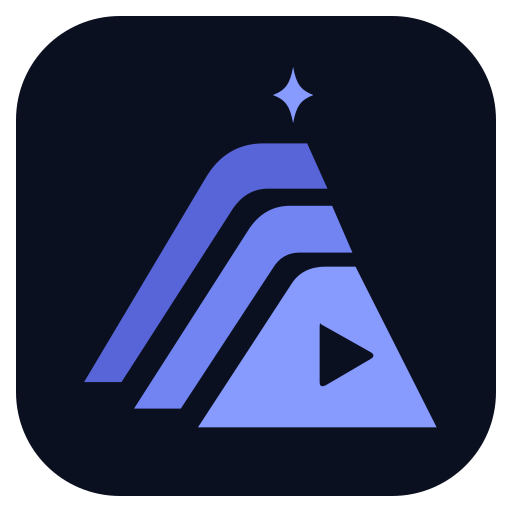
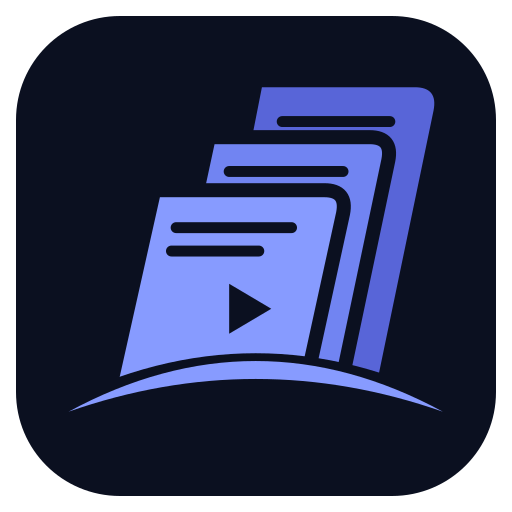
feat(brand): adopt files over sun arc identity

Changed region(s): [[0.1562, 0.125, 0.875, 0.8438], [0.1562, 0.7812, 0.1875, 0.8125]]

diff --git a/scripts/brand/build_brand.py b/scripts/brand/build_brand.py
@@ -16,17 +16,22 @@ FONT = Path(os.environ.get('ASTELVO_FONT_DIR', '/usr/share/fonts/truetype/libera
 COLORS = dict(background='#0B1020', surface='#151D30', accent='#879BFF', accentDeep='#5865D8', text='#F5F7FA', muted='#9CA8BC', sun='#F6C453')
 
 # Deliberate geometric reconstruction of approved raster concept; not an automatic trace.
-LAYERS = [
- 'M18 218 96 87Q109 65 133 65H161L174 94H136Q121 94 112 109L42 218Z',
- 'M50 235 123 121Q133 105 150 105H177L190 135H156Q145 135 139 145L80 235Z',
- 'M91 247 151 155Q158 144 173 144H192L244 247Z M170 181Q169 179 169 183V218Q169 222 173 220L202 203Q205 201 202 199Z'
+CARDS = [
+ 'M132 29H230Q245 29 242 44L205 222H94L132 29Z',
+ 'M98 61H201Q216 61 213 76L181 228H62L98 61Z',
+ 'M63 95H172Q187 95 184 110L158 229H33L63 95Z'
 ]
-STAR = 'M152 16C150 27 147 31 139 34C147 37 150 41 152 52C154 41 157 37 165 34C157 31 154 27 152 16Z'
+ARC = 'M8 237Q128 172 248 237Q128 195 8 237Z'
 
-def mark(palette, star=True):
-    parts = [f'<path d="{d}" fill="{color}" fill-rule="evenodd"/>' for d,color in zip(LAYERS,palette)]
-    if star: parts.append(f'<path d="{STAR}" fill="{palette[-1]}"/>')
-    return ''.join(parts)
+def mark(palette, detail=True):
+    # Transparent keyline gaps separate overlapping cards even in monochrome.
+    gaps=''.join(f'<path d="{d}" fill="white" stroke="black" stroke-width="9" stroke-linejoin="round"/>' for d in CARDS[1:])
+    holes='<path d="M111 155 111 187 138 171Z" fill="black"/>'
+    if detail:
+        holes+='<path d="M145 51H214M111 83H184M77 119H151M74 134H130" fill="none" stroke="black" stroke-width="7" stroke-linecap="round"/>'
+    defs=f'<defs><clipPath id="card-horizon"><path d="M0 0H256V232Q128 167 0 232Z"/></clipPath><mask id="card-gaps" maskUnits="userSpaceOnUse" x="0" y="0" width="256" height="256"><rect width="256" height="256" fill="white"/>{gaps}{holes}</mask></defs>'
+    cards=''.join(f'<path d="{d}" fill="{c}"/>' for d,c in zip(CARDS,palette))
+    return defs+f'<g clip-path="url(#card-horizon)" mask="url(#card-gaps)">{cards}</g><path d="{ARC}" fill="{palette[-1]}"/>'
 
 def svg(w,h,body,title):
     return f'<svg xmlns="http://www.w3.org/2000/svg" width="{w}" height="{h}" viewBox="0 0 {w} {h}" role="img" aria-labelledby="title"><title id="title">{title}</title>{body}</svg>\n'
@@ -43,10 +48,10 @@ def outline(text,x,y,size,bold=False,spacing=0,color='#F5F7FA'):
 
 def write(name,text): (OUT / name).write_text(text)
 
-write('astelvo-mark-color.svg',svg(256,256,mark([COLORS['accentDeep'],'#7184F2',COLORS['accent']]),'ASTELVO layered A with play cutout and exploration star'))
+write('astelvo-mark-color.svg',svg(256,256,mark([COLORS['accentDeep'],'#7184F2',COLORS['accent']]),'ASTELVO layered script files over a sun arc'))
 write('astelvo-mark-light.svg',svg(256,256,mark([COLORS['text']]*3),'ASTELVO monochrome light mark'))
 write('astelvo-mark-dark.svg',svg(256,256,mark([COLORS['background']]*3),'ASTELVO monochrome dark mark'))
-write('astelvo-mark-small.svg',svg(256,256,mark([COLORS['accent']]*3,False),'ASTELVO compact mark without star'))
+write('astelvo-mark-small.svg',svg(256,256,mark([COLORS['accent']]*3,False),'ASTELVO compact files and sun arc mark'))
 
 for mode in ['dark','light']:
     bg=COLORS['background'] if mode=='dark' else '#FFFFFF'
@@ -62,13 +67,13 @@ for mode in ['dark','light']:
 icon=f'<rect x="8" y="8" width="240" height="240" rx="52" fill="{COLORS["background"]}"/>'
 icon+=f'<g transform="translate(28 21) scale(.78)">{mark([COLORS["accentDeep"],"#7184F2",COLORS["accent"]])}</g>'
 write('astelvo-app-icon.svg',svg(256,256,icon,'ASTELVO application icon'))
-write('astelvo-app-icon-small.svg',svg(256,256,f'<rect x="8" y="8" width="240" height="240" rx="52" fill="{COLORS["background"]}"/><g transform="translate(9 -16) scale(.94)">{mark([COLORS["accent"]]*3,False)}</g>','ASTELVO small app icon'))
+write('astelvo-app-icon-small.svg',svg(256,256,f'<rect x="8" y="8" width="240" height="240" rx="52" fill="{COLORS["background"]}"/><g transform="translate(17 15) scale(.86)">{mark([COLORS["accent"]]*3,False)}</g>','ASTELVO small app icon'))
 
-(OUT/'tokens.json').write_text(json.dumps({'brand':'ASTELVO by Sun','tagline':'Organize. Script. Explore.','version':'0.1.0','colors':COLORS},indent=2)+'\n')
+(OUT/'tokens.json').write_text(json.dumps({'brand':'ASTELVO by Sun','tagline':'Organize. Script. Explore.','version':'0.2.0','colors':COLORS},indent=2)+'\n')
 (OUT/'tokens.css').write_text(':root {\n'+''.join(f'  --astelvo-{k}: {v};\n' for k,v in COLORS.items())+'}\n')
 
 for n in [16,24,32,48,64,128,256,512,1024]:
-    # Optical small-size variant: one flat fill, larger silhouette, no detached star.
+    # Optical small-size variant: one flat fill, larger silhouette, no code strokes.
     source=OUT/'astelvo-app-icon.svg'
     if n<=24:
         source=OUT/'astelvo-app-icon-small.svg'

diff --git a/docs/brand/BRAND-GUIDE.md b/docs/brand/BRAND-GUIDE.md
@@ -1,15 +1,15 @@
-# ASTELVO by Sun — Brand assets v0.1
+# ASTELVO by Sun — Brand assets v0.2
 
 **Organize. Script. Explore.**
 
-The owner approved concept 01 and its visual direction: layered A, play cutout, exploration star and periwinkle blue. These SVG masters are a deliberate geometric reconstruction of that raster concept, with outlined typography and simplified small-size variants. They are usable implementation assets, not a pixel-perfect vector trace of the generated board. The product interface on that board remains illustrative.
+The owner approved concept 02: three layered script files over a sun arc, a play cutout and periwinkle blue. This supersedes concept 01's layered A and detached star. These SVG masters are a deliberate geometric reconstruction of that raster concept, with outlined typography and simplified small-size variants. They are usable implementation assets, not a pixel-perfect vector trace of the generated board. The product interface on that board remains illustrative.
 
 ## Identity
 
 - Public name: **ASTELVO by Sun**. Wordmark: **ASTELVO**; endorsement: **by Sun**.
 - Tagline: **Organize. Script. Explore.** Preserve spelling, capitalization and punctuation.
 - Product ID: SUN-009. Technical identity: `Sun.Workspace`.
-- Layered strokes express organization; the negative-space triangle expresses Try It; the star connects exploration to the SUN family.
+- Layered script files express organization; the negative-space triangle expresses Try It; the sun arc connects the workspace to the SUN family.
 
 ## Assets
 
@@ -20,7 +20,7 @@ All assets live in `assets/brand/`.
 | `astelvo-mark-color.svg` | Primary standalone mark; transparent background |
 | `astelvo-mark-light.svg` | Single-colour light mark on dark surfaces |
 | `astelvo-mark-dark.svg` | Single-colour dark mark on light surfaces |
-| `astelvo-mark-small.svg` | Flat compact mark without detached star |
+| `astelvo-mark-small.svg` | Flat compact files-and-arc mark without script strokes |
 | `astelvo-lockup-dark.svg` / `.png` | Logo, endorsement and tagline on navy |
 | `astelvo-lockup-light.svg` / `.png` | Logo, endorsement and tagline on white |
 | `astelvo-app-icon.svg` | App tile master; transparent outer corners |
@@ -46,16 +46,16 @@ The intermediate mark layer uses `#7184F2`. Light lockups use a darker gold `#76
 ## Usage
 
 - Keep the aspect ratio and negative spaces intact. Never stretch, skew or rotate the mark.
-- Minimum recommended full mark size: 32 px; use the starless compact variant at 16–24 px.
+- Minimum recommended full mark size: 32 px; use the simplified compact variant at 16–24 px.
 - Leave clear space of at least one eighth of the mark width around a standalone mark.
 - Show the complete lockup at 420 CSS px or wider; use the mark alone where the tagline is too small to read.
 - Use flat or monochrome marks for small UI placements. Glows and decorative backgrounds are optional presentation effects, not part of recognition.
-- Do not add a security shield, database cylinder, planet or unrelated language logo to the mark.
+- Keep the sun arc and three file layers together. Do not substitute the superseded layered A or detached star, or add a security shield, database cylinder, planet or unrelated language logo.
 - SVG text is outlined: rendering has no installed-font dependency. Set an accessible label at the consuming UI; decorative duplicates should be hidden from assistive technology.
 
 ## Typography and provenance
 
-The raster concept's typography is approximated with Liberation Sans Bold and Regular converted to paths, with deliberate wordmark tracking. No font binary is distributed. The accompanying `FONT-LICENSE.txt` preserves the upstream Liberation Fonts OFL notice. A future typography revision should update the assets together rather than substituting fonts inside one logo.
+Concept 02's typography is approximated with Liberation Sans Bold and Regular converted to paths, with deliberate wordmark tracking. No font binary is distributed. The accompanying `FONT-LICENSE.txt` preserves the upstream Liberation Fonts OFL notice. A future typography revision should update the assets together rather than substituting fonts inside one logo.
 
 ## Rebuilding and validation
 
@@ -64,3 +64,4 @@ Run `python3 scripts/brand/build_brand.py` from the repository root. Requirement
 Validation performed: SVG XML parsing, no embedded scripts/external font references, PNG dimensions/alpha, ICO frame sizes, and visual review of both lockups and actual-size icon exports. OS installer/taskbar validation remains part of M0/M5 packaging work. Brand generation does not complete the desktop milestone.
 
 Commercial naming/logo similarity clearance remains pending; visual approval is not a clearance claim. These files do not grant third-party rights to the brand.
+

diff --git a/docs/brand/0002-files-over-sun-arc.md b/docs/brand/0002-files-over-sun-arc.md
@@ -1,0 +1,13 @@
+# Decision: files over a sun arc
+
+Status: Accepted visual direction, asset implementation v0.2.
+
+The owner selected concept 02 after identifying the layered-file and sun-arc illustration as the preferred part of the initial artwork, then approved implementing that direction with “perfect. Go for it”.
+
+Use three overlapping script files above a sun arc with a play cutout on the foremost file. Retain ASTELVO by Sun, Organize. Script. Explore., periwinkle blue and the established SUN dark palette. Concept 01's layered A and detached star are superseded.
+
+Rebuild all vector masters, monochrome variants, light/dark lockups, icon exports and the Windows ICO together. Existing filenames stay stable so README light/dark artwork updates without changing links. Git history retains the previous identity. Small icons omit script strokes while retaining the files, play cutout and arc.
+
+The source artwork is a raster concept; SVGs deliberately reconstruct its geometry with outlined typography, rather than claiming a pixel-perfect trace. Colour and flat monochrome versions share the same silhouette. The rendered workspace in the concept remains illustrative; it does not establish implemented functionality.
+
+This changes branding assets only. It does not change roadmap milestones, application code, release configuration or commercial-clearance status.
